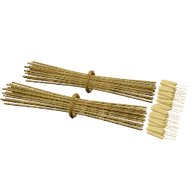
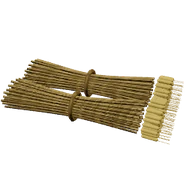
Avance: segunda mirada: la gavilla más llena y de color apagado, la col más redonda, la col y el nabo asados tostados, el rabillo del nabo asado corto; «una gavilla» en singular
Claude-Session: https://claude.ai/code/session_011XgxtoC4jpDrVeicxpqe7z

Changed region(s): [[0.0, 0.2812, 0.9688, 0.75]]

diff --git a/src/juego/modelos_objetos.js b/src/juego/modelos_objetos.js
@@ -271,44 +271,44 @@ function semillas(color) {
 // con un vencejo de paja retorcida y con las espigas juntas en una punta; la col, el cogollo apretado verde pálido entre
 // sus hojas de fuera, más oscuras y azuladas; el nabo, la raíz blanca con el cuello morado y su rabillo, tumbado, con
 // las hojas. Asados, tostados y con alguna mancha quemada.
-const CANA = 0xc2a868, CANA_OSC = 0xa88e52, COGOLLO = 0xb4c69a, HOJA_COL = 0x6e8a6a, NABO_BLANCO = 0xe8e0d4, NABO_MORADO = 0x8a4a72, HOJA_NABO = 0x5f8442;
+const CANA = 0xa38f5c, CANA_OSC = 0x857146, ESPIGA_GAV = 0xa99556, COGOLLO = 0xb4c69a, HOJA_COL = 0x6e8a6a, NABO_BLANCO = 0xe8e0d4, NABO_MORADO = 0x8a4a72, HOJA_NABO = 0x5f8442;
 function gavilla(n, id) {
   const L = lote(0.06);
   const k = Math.max(1, Math.min(2, n || 1));
   for (let g = 0; g < k; g++) {
     const oz = (g - (k - 1) / 2) * 0.22, giro = new THREE.Matrix4().makeRotationY((az(id, g) - 0.5) * 0.4);
     const en = (x, y, z) => new THREE.Vector3(x, y, z + oz).applyMatrix4(giro);
-    for (let i = 0; i < 26; i++) {   // las cañas: juntas en el atado, abiertas en las puntas
-      const a = i * 2.399, r = Math.sqrt((i + 0.5) / 26), dy = Math.sin(a) * r, dz = Math.cos(a) * r;
-      const p0 = en(-0.36, 0.06 + dy * 0.055, dz * 0.07), p1 = en(-0.02, 0.06 + dy * 0.035, dz * 0.04), p2 = en(0.3, 0.06 + dy * 0.05, dz * 0.065);
-      L.add(tubo([p0, p1, p2], 0.004, 3), i % 3 ? CANA : CANA_OSC, 0, 0, 0, null, { tex: 'paja', sinSuelo: true });
-      const e = en(0.36, 0.06 + dy * 0.06, dz * 0.08);   // la espiga, al final de la caña, con sus aristas
-      const gr = new THREE.CapsuleGeometry(0.008, 0.06, 2, 5); gr.rotateZ(Math.PI / 2 + (az(id, i) - 0.5) * 0.3);
-      L.add(gr, ESPIGA, e.x, e.y, e.z, null, { tex: 'liso', sinSuelo: true, brillo: 1.05 });
+    for (let i = 0; i < 44; i++) {   // las cañas: juntas en el atado, abiertas en las puntas; el haz, tumbado y algo aplastado
+      const a = i * 2.399, r = Math.sqrt((i + 0.5) / 44), dy = Math.sin(a) * r, dz = Math.cos(a) * r;
+      const p0 = en(-0.36, 0.07 + dy * 0.06, dz * 0.1), p1 = en(-0.02, 0.06 + dy * 0.045, dz * 0.06), p2 = en(0.3, 0.07 + dy * 0.06, dz * 0.1);
+      L.add(tubo([p0, p1, p2], 0.006, 3), i % 3 ? CANA : CANA_OSC, 0, 0, 0, null, { tex: 'paja', sinSuelo: true });
+      const e = en(0.36, 0.07 + dy * 0.065, dz * 0.12);   // la espiga, al final de la caña, con sus aristas
+      const gr = new THREE.CapsuleGeometry(0.009, 0.06, 2, 5); gr.rotateZ(Math.PI / 2 + (az(id, i) - 0.5) * 0.3);
+      L.add(gr, ESPIGA_GAV, e.x, e.y, e.z, null, { tex: 'liso', sinSuelo: true });
       const ar = new THREE.CylinderGeometry(0.0009, 0.0009, 0.06, 3); ar.rotateZ(Math.PI / 2 - 0.2 + az(id, i + 9) * 0.4);
-      L.add(ar, ARISTA, e.x + 0.06, e.y, e.z, null, { sinSuelo: true, brillo: 1.1 });
+      L.add(ar, CANA, e.x + 0.06, e.y, e.z, null, { sinSuelo: true });
     }
     const c = en(-0.02, 0.06, 0);   // el vencejo
-    L.add(new THREE.TorusGeometry(0.05, 0.009, 5, 14), CANA_OSC, c.x, c.y, c.z, { y: Math.PI / 2 + (az(id, g) - 0.5) * 0.4 }, { tex: 'paja', sinSuelo: true });
+    L.add(new THREE.TorusGeometry(0.065, 0.011, 5, 16), CANA_OSC, c.x, c.y, c.z, { y: Math.PI / 2 + (az(id, g) - 0.5) * 0.4 }, { tex: 'paja', sinSuelo: true });
   }
   return mallas(L);
 }
 function col(asada) {
   return (n, id) => {
-    const L = lote(0.04), t = asada ? 0.62 : 1, tueste = (c) => new THREE.Color(c).lerp(new THREE.Color(0x7a5a2a), asada ? 0.5 : 0);
+    const L = lote(0.04), t = asada ? 0.62 : 1, tueste = (c) => new THREE.Color(c).lerp(new THREE.Color(0x5e3c1c), asada ? 0.75 : 0);
     for (let i = 0; i < 6; i++) {   // las hojas de fuera: cuencos abiertos alrededor del cogollo
-      const a = i * 1.05 + az(id, i) * 0.4, h = new THREE.SphereGeometry(0.1, 9, 6, 0, Math.PI * 2, 0, Math.PI * 0.42);
+      const a = i * 1.05 + az(id, i) * 0.4, h = new THREE.SphereGeometry(0.1, 14, 8, 0, Math.PI * 2, 0, Math.PI * 0.42);
       h.scale(1, 0.55, 0.75); h.rotateX(-Math.PI / 2 + 0.5);
       L.add(h, tueste(HOJA_COL), Math.cos(a) * 0.06, 0.07 * t + 0.02, Math.sin(a) * 0.06, { y: -a + Math.PI / 2 }, { tex: 'liso', sinSuelo: true });
     }
-    L.add(new THREE.IcosahedronGeometry(0.075, 2), tueste(COGOLLO), 0, 0.075, 0, null, { escala: v3(1, 0.88 * (asada ? 0.85 : 1), 1), tex: 'liso', sinSuelo: true, brillo: 1.04 });
+    L.add(new THREE.IcosahedronGeometry(0.075, 3), tueste(COGOLLO), 0, 0.075, 0, null, { escala: v3(1, 0.88 * (asada ? 0.85 : 1), 1), tex: 'liso', sinSuelo: true, brillo: 1.04 });
     return mallas(L);
   };
 }
 function nabo(asado) {
   return (n, id) => {
     const L = lote(0.03), k = Math.max(1, Math.min(2, n || 1));
-    const tueste = (c) => new THREE.Color(c).lerp(new THREE.Color(0x8a5a26), asado ? 0.62 : 0);
+    const tueste = (c) => new THREE.Color(c).lerp(new THREE.Color(0x7a4a20), asado ? 0.72 : 0);
     for (let j = 0; j < k; j++) {
       const oz = (j - (k - 1) / 2) * 0.12, gy = (az(id, j) - 0.5) * 0.6;
       const rot = new THREE.Matrix4().makeRotationY(gy);
@@ -317,8 +317,8 @@ function nabo(asado) {
       L.add(new THREE.IcosahedronGeometry(0.045, 2), tueste(NABO_BLANCO), c.x, c.y, c.z, null, { escala: v3(1.05, 1, 1), tex: 'liso', sinSuelo: true, brillo: 1.05 });
       const m = en(-0.025, 0.05, 0);   // el cuello morado (tumbado: hacia las hojas)
       L.add(new THREE.IcosahedronGeometry(0.036, 2), tueste(NABO_MORADO), m.x, m.y, m.z, null, { escala: v3(0.8, 0.95, 0.95), tex: 'liso', sinSuelo: true });
-      const r0 = en(0.07, 0.04, 0);   // el rabillo: la raíz que se afila, corta y algo torcida
-      const cono = new THREE.ConeGeometry(0.02, 0.07, 6); cono.rotateZ(-Math.PI / 2 - 0.15);
+      const r0 = en(asado ? 0.055 : 0.07, 0.04, 0);   // el rabillo: la raíz que se afila, corta y algo torcida
+      const cono = new THREE.ConeGeometry(0.018, asado ? 0.035 : 0.06, 6); cono.rotateZ(-Math.PI / 2 - 0.15);
       L.add(cono, tueste(NABO_BLANCO), r0.x, r0.y, r0.z, { y: gy }, { tex: 'liso', sinSuelo: true });
       if (!asado) for (let i = 0; i < 3; i++) {   // las hojas, tumbadas hacia atrás
         const h0 = en(-0.06, 0.05, 0), h1 = en(-0.14, 0.04 + i * 0.008, (i - 1) * 0.04), h2 = en(-0.24, 0.02, (i - 1) * 0.07);

diff --git a/src/juego/main.js b/src/juego/main.js
@@ -2488,7 +2488,7 @@ function golpeSiega(a) {
   const sg = a.siega, r = accion({ tipo: 'segar', campo: sg.campo.id, x: redondoMm(sg.x), z: redondoMm(sg.z), t: Date.now() });
   if (!r.ok) { mostrarAviso(tr(r.motivo), true); return; }
   guardar(); reconstruir(); actualizarUI();
-  mostrarAviso(r.gavillas ? tr('Segados {n} m²: {g} gavillas al suelo.', { n: r.segadas, g: r.gavillas }) : tr('Segados {n} m².', { n: r.segadas }));
+  mostrarAviso(r.gavillas > 1 ? tr('Segados {n} m²: {g} gavillas al suelo.', { n: r.segadas, g: r.gavillas }) : r.gavillas ? tr('Segados {n} m²: una gavilla al suelo.', { n: r.segadas }) : tr('Segados {n} m².', { n: r.segadas }));
 }
 function empezarCosecha(cp) {
   estado.talando = { cosecha: cp, x: cp.x, z: cp.z }; estado.golpeEn = SEGUNDOS_COGER;

diff --git a/pruebas/prueba_campos_navegador.py b/pruebas/prueba_campos_navegador.py
@@ -336,7 +336,7 @@ try:
         A.evaluate(f"{K}.estado.golpeEn = 0")
         l = servidorMundo(lambda l: any(e.get('tipo') == 'segar' and e.get('ok') for e in l))
         comprobar('se siega en el servidor', l is not None, A.evaluate(AVISO))
-        comprobar('el aviso dice lo segado y las gavillas', esperar(A, f"/Segados \\d+ m²: \\d+ gavillas al suelo/.test({AVISO})", 5000), A.evaluate(AVISO))
+        comprobar('el aviso dice lo segado y las gavillas', esperar(A, f"/Segados \\d+ m²: (una gavilla|\\d+ gavillas) al suelo/.test({AVISO})", 5000), A.evaluate(AVISO))
         comprobar('las gavillas quedan en el suelo y se ven', esperar(A, f"{K}.sueloObjetos.suelo.objetos.some(o => o.cosa.tipo === 'gavilla') && !!{K}.escena.getObjectByName('suelo_gavilla')", 8000), A.evaluate(f"JSON.stringify({K}.sueloObjetos.suelo.objetos.map(o => o.cosa))"))
         for xx in (x0 + 3.8, x0 + 6.2):
             ir(A, xx, z0 + 0.6, 0); A.evaluate(f"{K}.usar()"); A.evaluate(f"{K}.estado.golpeEn = 0"); A.wait_for_timeout(600)
